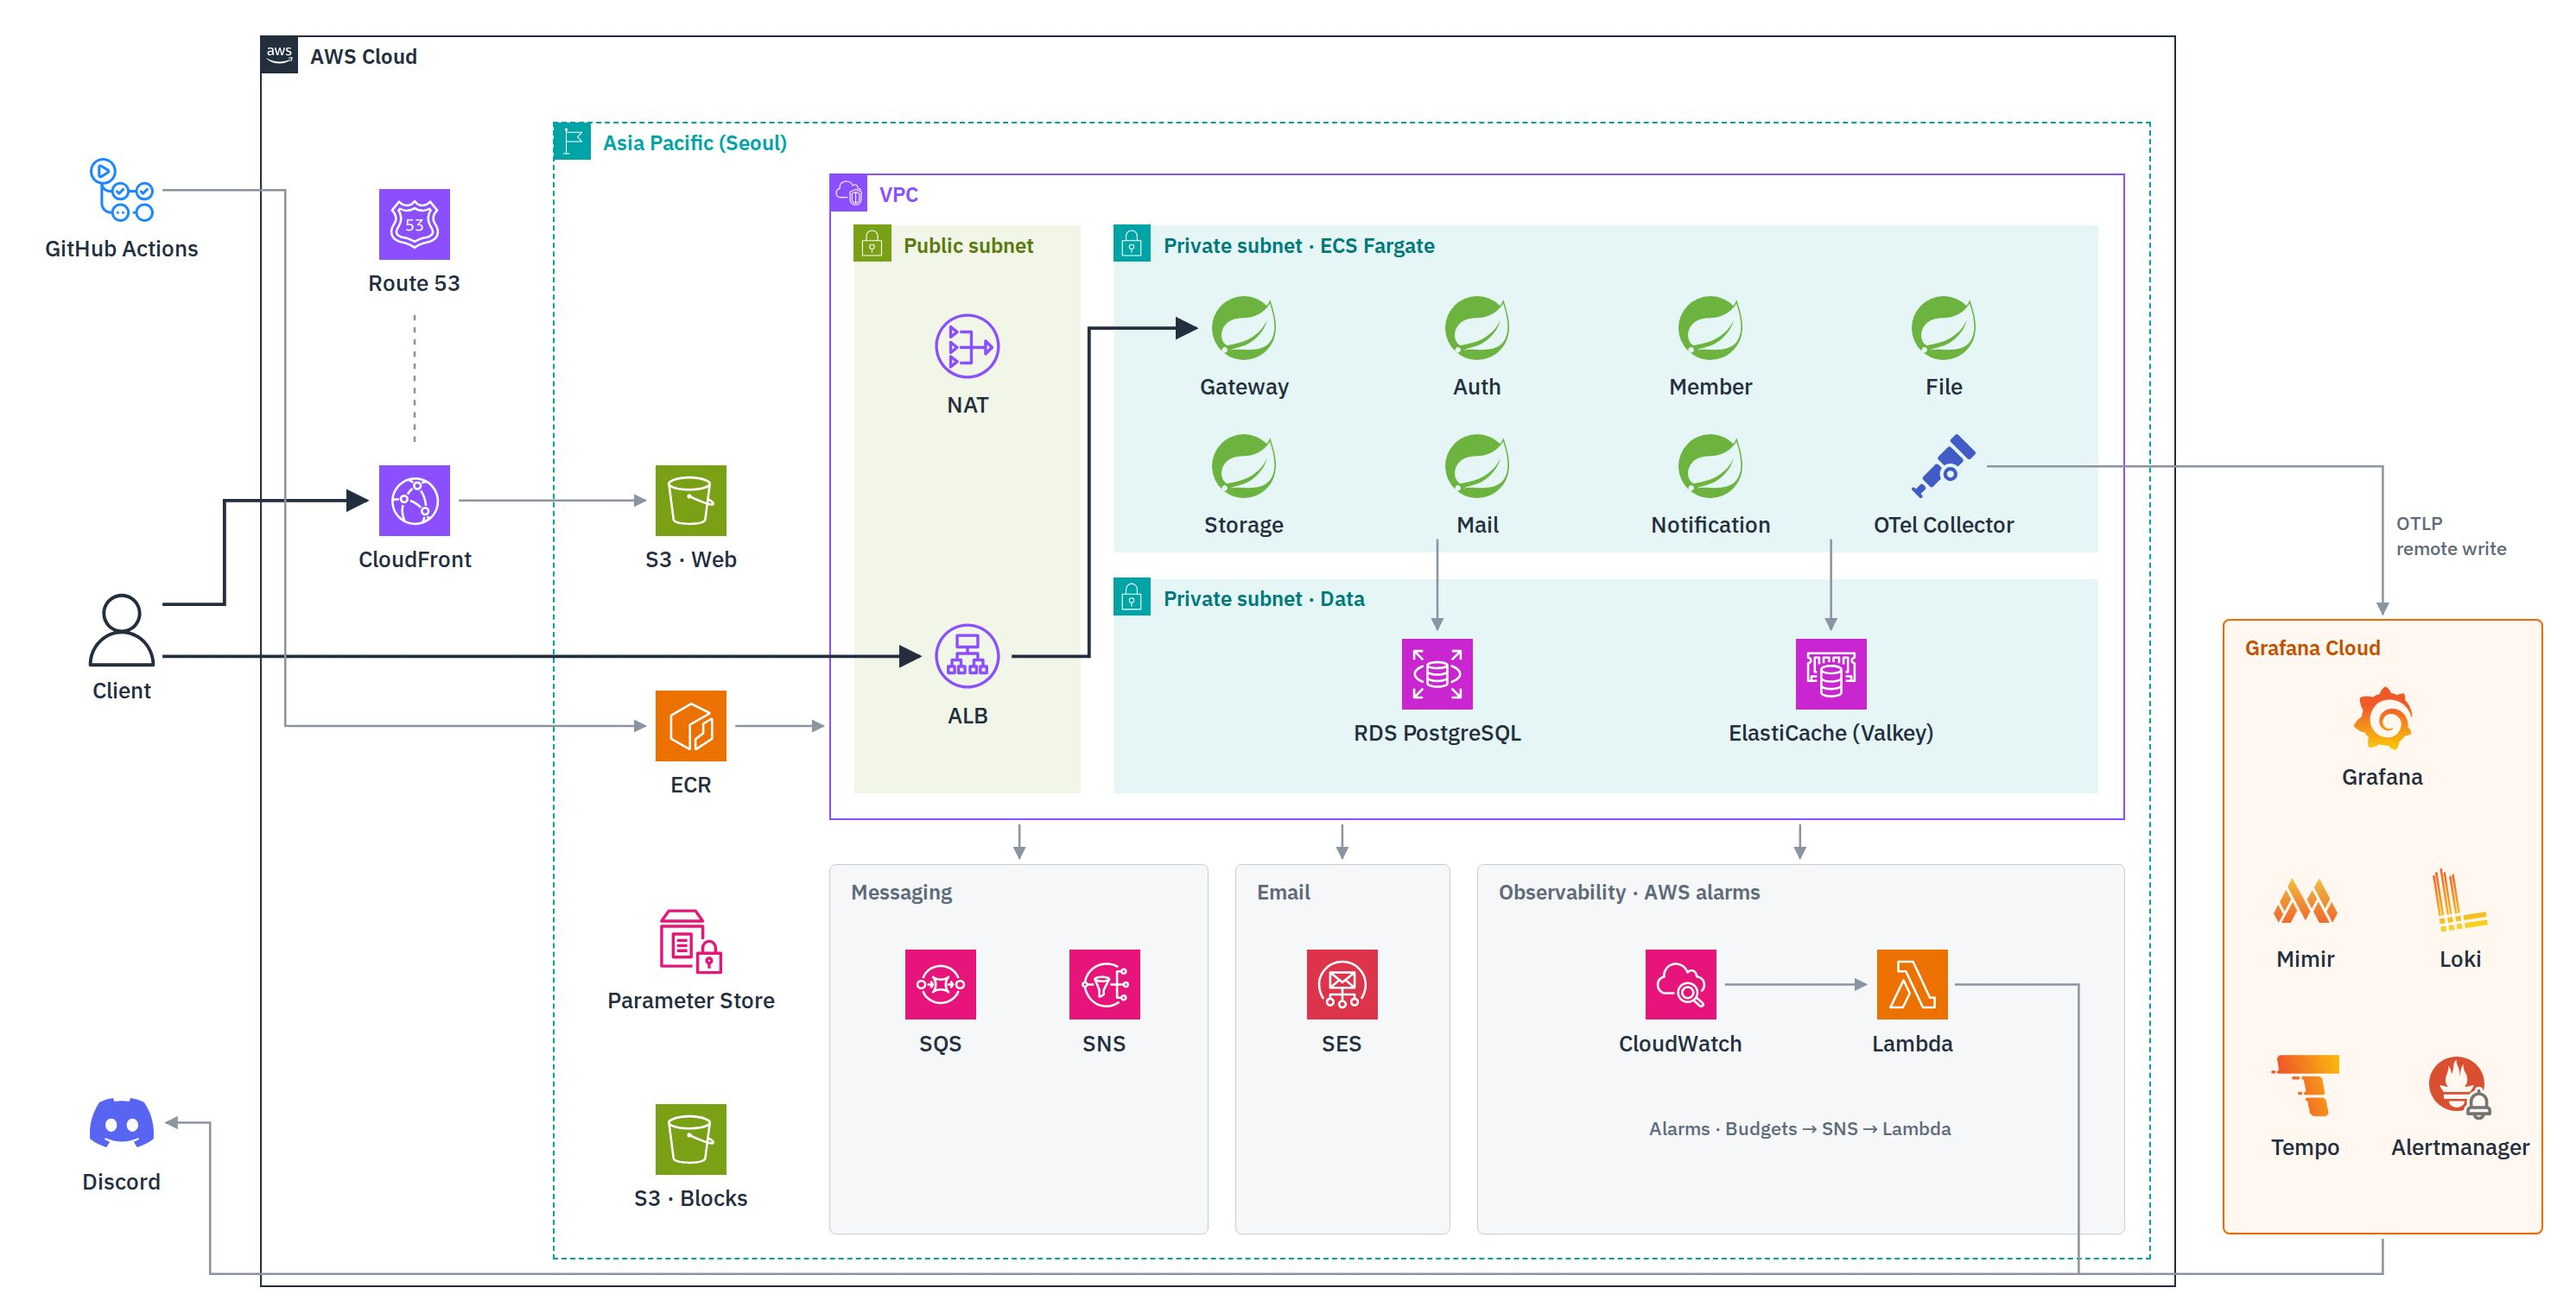
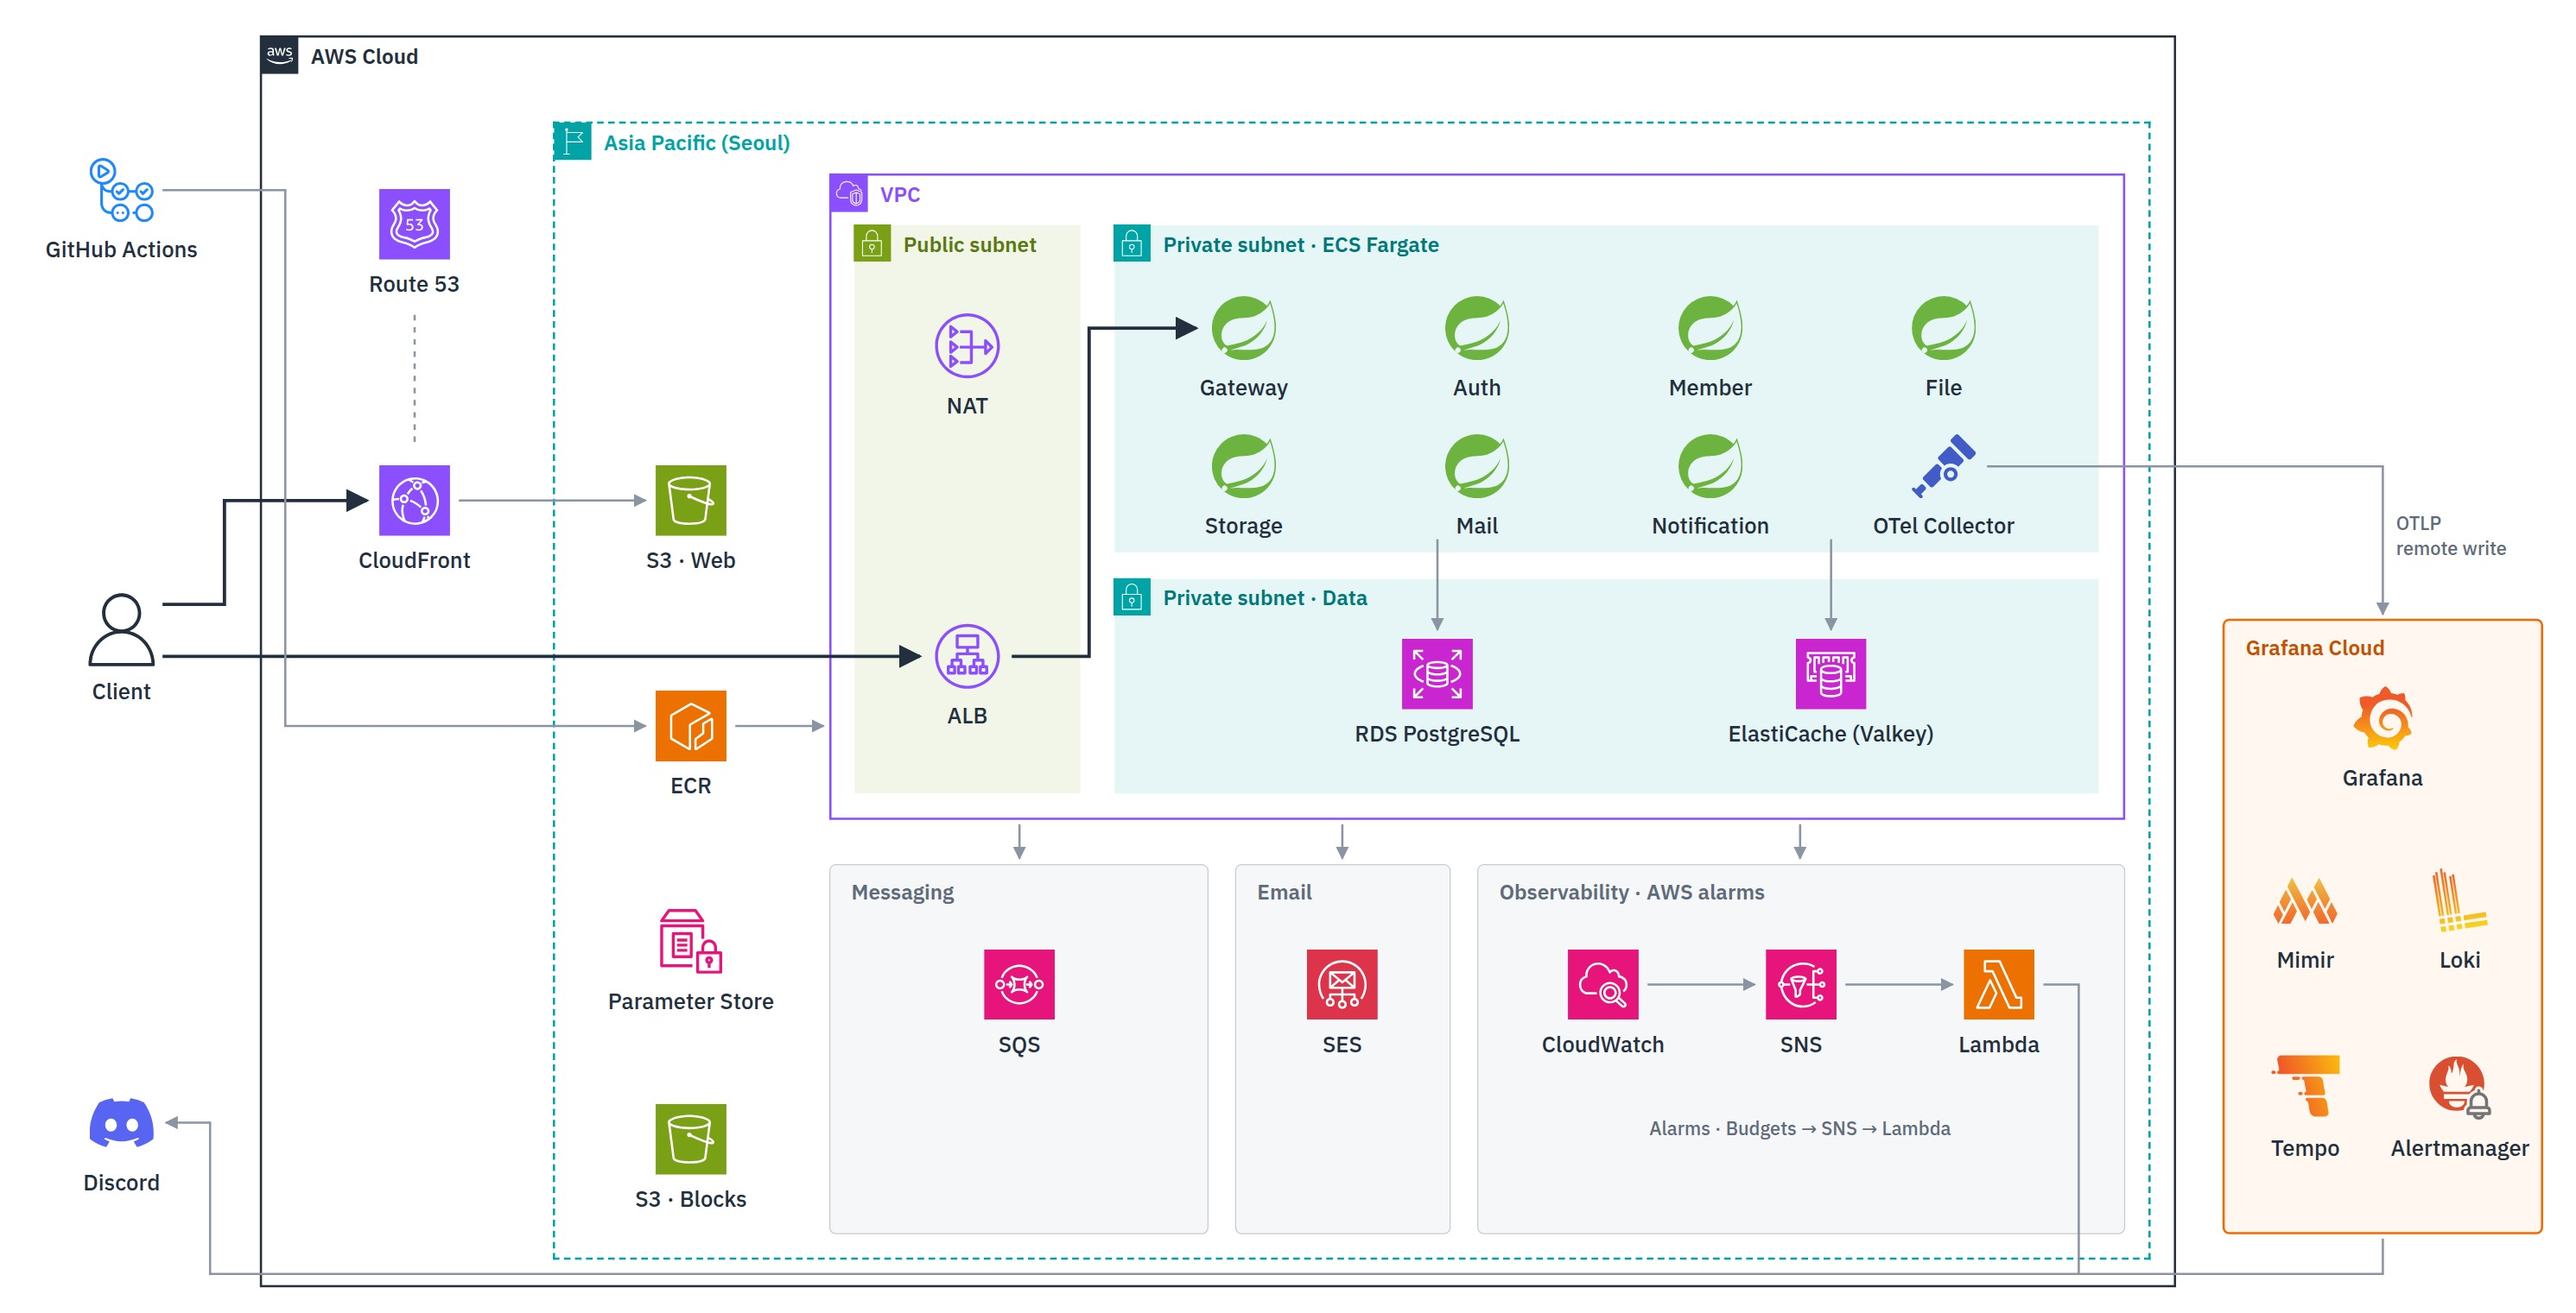
docs: move SNS to alarm path in architecture (#938)

diff --git a/.docs/images/architecture.html b/.docs/images/architecture.html
@@ -55,11 +55,12 @@
     <path d="M922 746V777"/>
     <path d="M1214 746V777"/>
     <path d="M1628 746V777"/>
-    <path d="M1560 891H1688"/>
+    <path d="M1490 891H1587"/>
+    <path d="M1669 891H1766"/>
     <path d="M1797 422H2155V556"/>
     <path d="M2155 1121V1153H190V1016H150"/>
   </g>
-  <path d="M1768 891H1880V1153" fill="none" stroke="#8a94a3" stroke-width="2"/>
+  <path d="M1848 891H1880V1153" fill="none" stroke="#8a94a3" stroke-width="2"/>
   <path d="M375 285V405" fill="none" stroke="#8a94a3" stroke-width="2" stroke-dasharray="5 6"/>
   <text x="2167" y="480" font-size="17" fill="#5f6b7a" font-weight="500">OTLP</text>
   <text x="2167" y="502" font-size="17" fill="#5f6b7a" font-weight="500">remote write</text>
@@ -116,16 +117,16 @@
 <div class="label" style="left:1656px;top:650px">ElastiCache (Valkey)</div>
 
 <!-- regional services -->
-<img class="ic" src="icons/AmazonSimpleQueueService.svg" style="left:851px;top:891px">
-<div class="label" style="left:851px;top:931px">SQS</div>
-<img class="ic" src="icons/AmazonSimpleNotificationService.svg" style="left:999px;top:891px">
-<div class="label" style="left:999px;top:931px">SNS</div>
+<img class="ic" src="icons/AmazonSimpleQueueService.svg" style="left:922px;top:891px">
+<div class="label" style="left:922px;top:931px">SQS</div>
+<img class="ic" src="icons/AmazonSimpleNotificationService.svg" style="left:1629px;top:891px">
+<div class="label" style="left:1629px;top:931px">SNS</div>
 <img class="ic" src="icons/AmazonSimpleEmailService.svg" style="left:1214px;top:891px">
 <div class="label" style="left:1214px;top:931px">SES</div>
-<img class="ic" src="icons/AmazonCloudWatch.svg" style="left:1520px;top:891px">
-<div class="label" style="left:1520px;top:931px">CloudWatch</div>
-<img class="ic" src="icons/AWSLambda.svg" style="left:1730px;top:891px">
-<div class="label" style="left:1730px;top:931px">Lambda</div>
+<img class="ic" src="icons/AmazonCloudWatch.svg" style="left:1450px;top:891px">
+<div class="label" style="left:1450px;top:931px">CloudWatch</div>
+<img class="ic" src="icons/AWSLambda.svg" style="left:1808px;top:891px">
+<div class="label" style="left:1808px;top:931px">Lambda</div>
 <div class="label" style="left:1628px;top:1010px;font-size:17px;color:#5f6b7a">Alarms · Budgets → SNS → Lambda</div>
 
 <!-- Grafana Cloud -->
